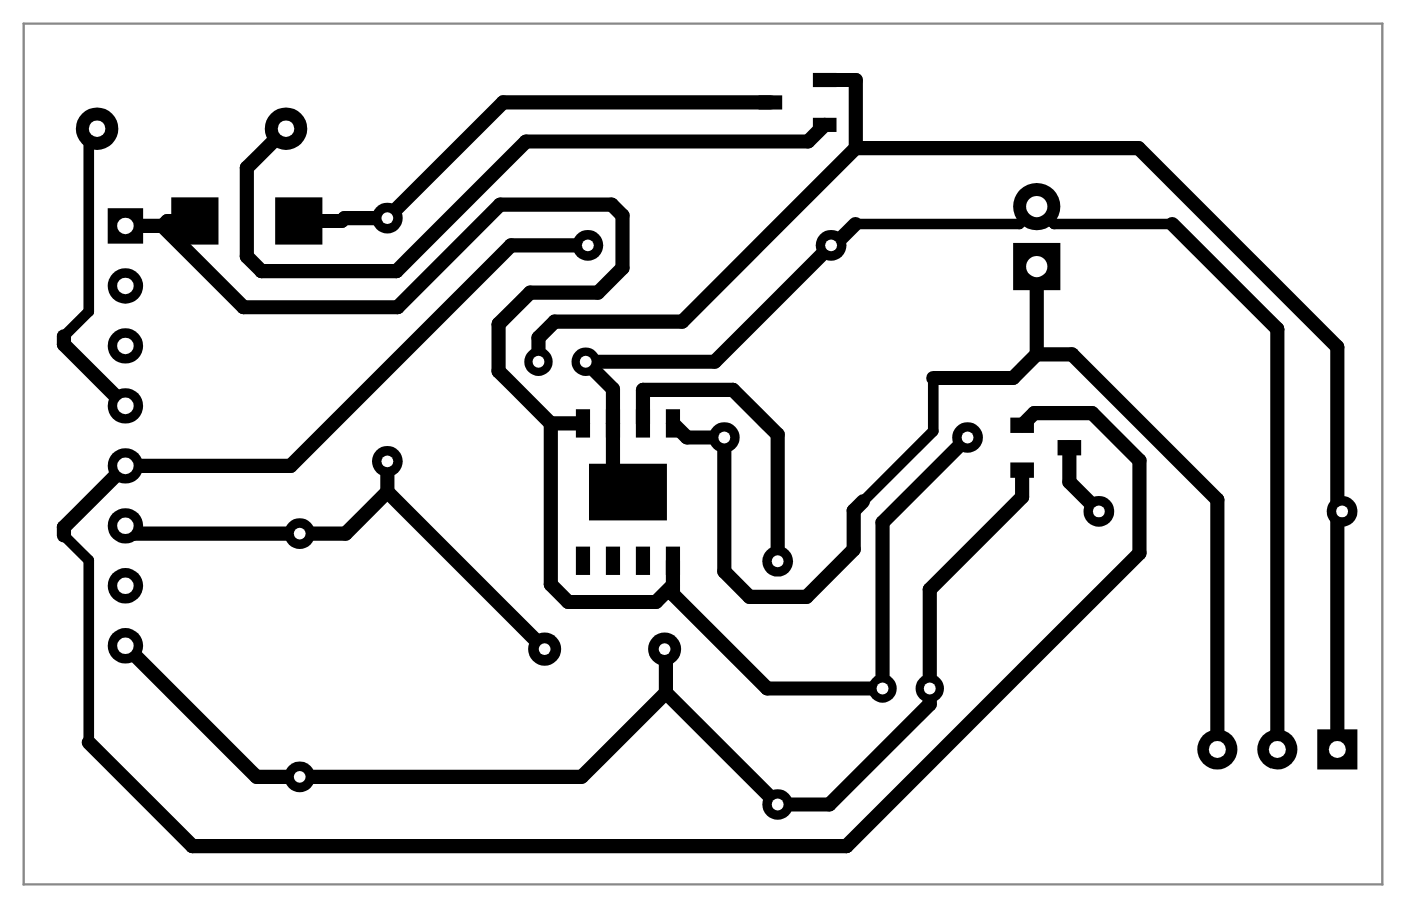
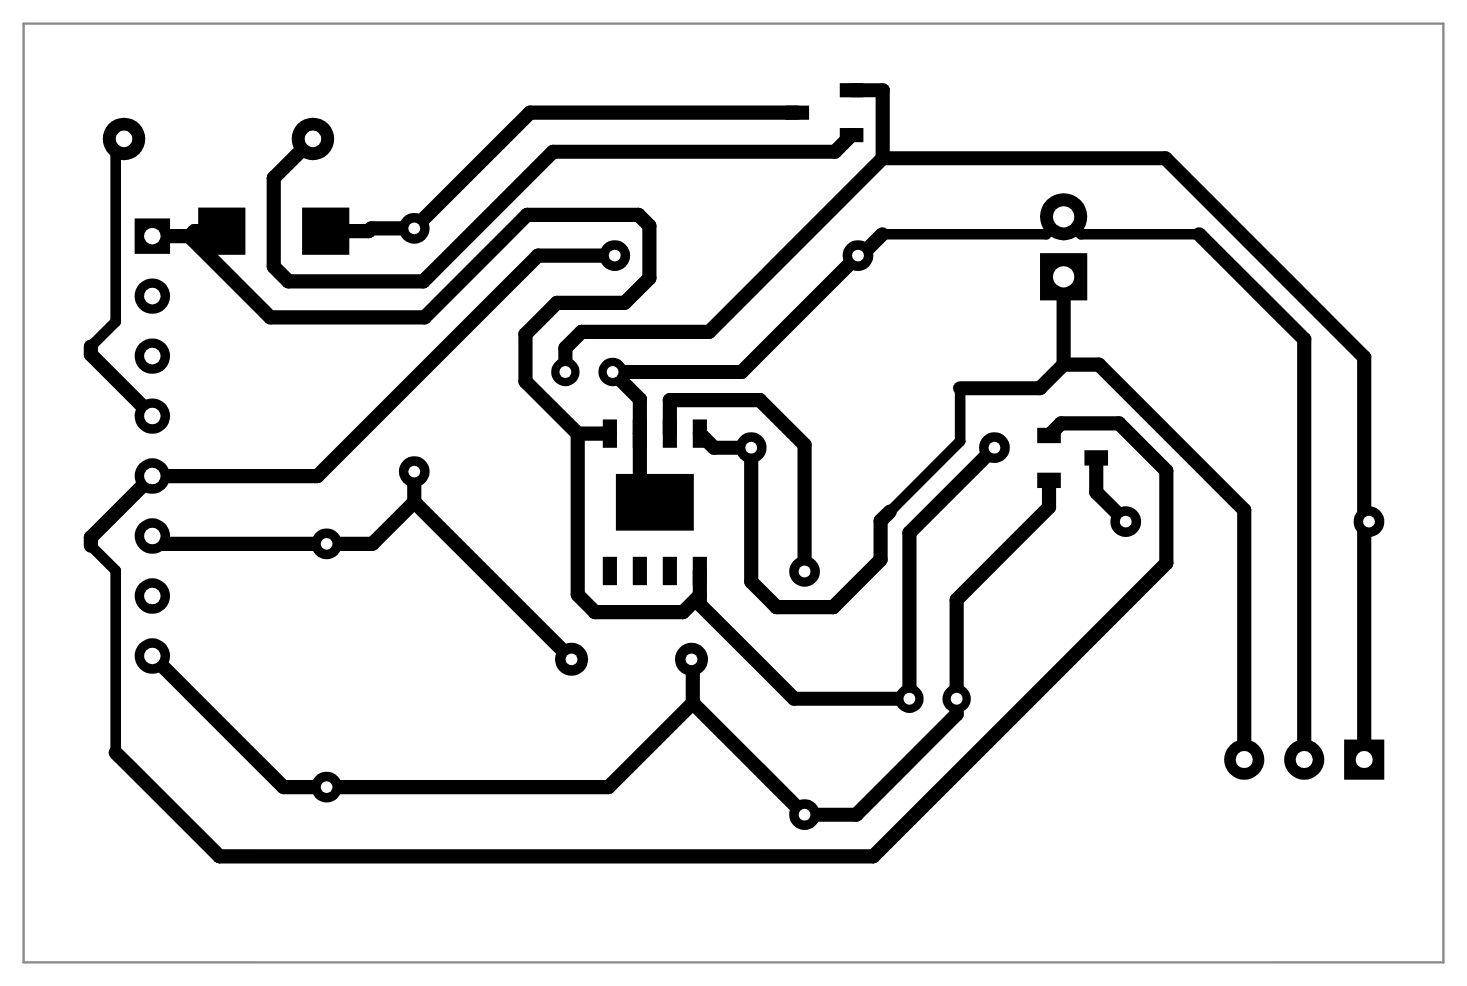
fix(hardware): enlarge the power board outline to clear the edge
The power board outline drawn in EasyEDA was 57.5 x 36.4 mm and left a
pad 1.05 mm from the edge, under the 2-3 mm Tiago asks for. The outline
is now 60.1 x 39.8 mm: copper sits 2.5 mm from the left, right and top
edges and 4.2 mm from the bottom one. The copper did not change; the
Gerber, fios.md and the engraving images are regenerated from the new
export.

Changed region(s): [[0.0, 0.0308, 1.0, 0.9868], [0.0306, 0.0, 0.9787, 0.0308]]

diff --git a/hardware/README.md b/hardware/README.md
@@ -9,7 +9,7 @@ fabrica placas de até 70 × 70 mm (laser + percloreto, uma face; trilha de 0,8 
 | Placa-base (CPU) | [`placa-principal/`](placa-principal/README.md) | 64 × 53 mm | 0 | DevKitC com cada pino em barras de pinos (3 cópias em cima, 2 embaixo), barra de 3V3 e de GND |
 | Botões da esquerda | [`placa-botoes-esquerda/`](placa-botoes-esquerda/README.md) | 52 × 64 mm | 4 | Cruz, Select/Start, energia, MCP23017 (0x20), pull-ups do I²C, D1 |
 | Botões da direita | [`placa-botoes-direita/`](placa-botoes-direita/README.md) | 39,2 × 39,2 mm | 0 | A, B, X, Y |
-| Energia | [`placa-energia/`](placa-energia/README.md) | 57,5 × 36,4 mm (vai a 60,1 × 38,1 mm) | 5 (4 de verdade) | TP4056, trava liga/desliga, divisor da bateria |
+| Energia | [`placa-energia/`](placa-energia/README.md) | 60,1 × 39,8 mm | 5 (4 de verdade) | TP4056, trava liga/desliga, divisor da bateria |
 
 Sem placa própria, presos na caixa e ligados por cabo à placa-base: tela MSP3218 (com o SD), CC1101,
 INMP441, MAX98357A (alto-falante no borne), IR RX, IR TX e PN532. O mapa de cada fio está na seção 4 de
@@ -34,15 +34,14 @@ pelo Tiago: trilha de 0,8 a 1 mm, margem de 2 a 3 mm; a isolação de 0,5 mm é 
 | Placa-base | 127, todas com 0,8 mm | 0,60 mm | 2,03 mm | 0 divergências (também contra `pins.h`) |
 | Botões da esquerda | 131; 0,8 mm menos `BTN_Y` (0,6 mm × 28,1 mm) e `GND` (0,4 mm × 1,4 mm) | 0,52 mm | 1,94 mm | 0 divergências |
 | Botões da direita | 29, todas com 0,8 mm | 0,52 mm | 2,15 mm | 0 divergências |
-| Energia | 123, com 0,6 mm e 38,9 mm de 0,45 mm (decisão do desenho, por causa do TP4056) | 0,52 mm | **1,05 mm** | 0 divergências |
+| Energia | 123, com 0,6 mm e 38,9 mm de 0,45 mm (decisão do desenho, por causa do TP4056) | 0,52 mm | 2,50 mm | 0 divergências |
 
 ## Pendências que valem para mais de uma placa
 
 | # | Item | Situação | Como fechar |
 |---|---|---|---|
 | 1 | Trilhas abaixo de 0,8 mm | **Fato:** só na esquerda (2 lugares) e na energia (por desenho). **Hipótese:** 0,6 mm e 0,45 mm saem no laser do Tiago, que engrossa tudo no Paint | Perguntar ao Tiago antes de gravar; se não sair, rerrotear (pode custar fios) |
-| 2 | Borda da energia | **Fato:** cobre a 1,05 mm da borda | Gabriel redesenha o contorno do PCB2 (números no README da energia, item 10) e exporta o Gerber de novo |
-| 3 | Isolação de 0,5 mm | **Hipótese:** basta para o processo do Tiago (pintura, laser, percloreto) | Primeira placa gravada |
-| 4 | Botões 6 × 6 | **Hipótese:** pinos 1 e 4 ficam em lados opostos da chave | Multímetro num botão comprado |
-| 5 | Imagem para gravar | **Fato:** o cobre está na camada de baixo em todas; `cobre-espelhada.png` é o lado do cobre visto de frente, 1:1. **Hipótese:** é a imagem que o Tiago quer | Confirmar com o Tiago na primeira placa |
-| 6 | Nada comprado nem montado | **Fato:** nenhuma placa foi gravada | — |
+| 2 | Isolação de 0,5 mm | **Hipótese:** basta para o processo do Tiago (pintura, laser, percloreto) | Primeira placa gravada |
+| 3 | Botões 6 × 6 | **Hipótese:** pinos 1 e 4 ficam em lados opostos da chave | Multímetro num botão comprado |
+| 4 | Imagem para gravar | **Fato:** o cobre está na camada de baixo em todas; `cobre-espelhada.png` é o lado do cobre visto de frente, 1:1. **Hipótese:** é a imagem que o Tiago quer | Confirmar com o Tiago na primeira placa |
+| 5 | Nada comprado nem montado | **Fato:** nenhuma placa foi gravada | — |

diff --git a/hardware/placa-energia/README.md b/hardware/placa-energia/README.md
@@ -5,7 +5,7 @@
 | Versão | 0.2 (2026-11-27) |
 | Para quem | Tiago Batista, que fabrica a placa em casa (corrosão de uma face) |
 | Ferramenta | EasyEDA Pro, projeto `dbmo`, placa `energia` (Schematic2 + PCB2) |
-| Tamanho | 57,5 × 36,4 mm, contorno do Gerber (limite do Tiago: 70 × 70 mm); deve crescer para 60,1 × 38,1 mm (seção 6, item 10) |
+| Tamanho | 60,1 × 39,8 mm, contorno do Gerber (limite do Tiago: 70 × 70 mm) |
 | Fonte das ligações | [`ligacoes.json`](ligacoes.json) |
 | Estado | **Desenhada e roteada, 5 fios (4 de verdade), sem curto** (`fios.py` sobre o Gerber exportado do EasyEDA). Nenhuma peça comprada, nada montado. Não corroer antes de fechar a seção 6 |
 
@@ -75,7 +75,7 @@ JE-5 da placa de botões da esquerda (o botão de energia e o D1 ficam lá).
 Rota pelo Freerouting 2.5.0 só na camada de baixo (trilha 0,6 mm, mínimo 0,4 mm, isolação 0,5 mm),
 importada no PCB2 pela API. Medido no Gerber exportado (`fios.md`): isolação mínima de 0,52 mm; toda
 trilha com 0,6 mm, menos 38,9 mm com 0,45 mm (`GND`, `POWER_HOLD`, `PWR_KEY` e `TEMP`); cobre a
-1,05 mm da borda no ponto mais perto (pad R3.1). `fios.md` lista 5 fios; o W4 (GND J2-2 ↔ J2-8) não precisa ser feito,
+2,50 mm da borda no ponto mais perto (pad R3.1). `fios.md` lista 5 fios; o W4 (GND J2-2 ↔ J2-8) não precisa ser feito,
 porque os dois GND do cabo se juntam na placa-base. O W1 (`BAT+`) e o fio do `CHG_STAT` passam por
 cima do TP4056. Um fio é inevitável nesta topologia: o CE (pino 8) é `+5V` e fica na diagonal oposta
 do VCC (pino 4), e com o NTC ligado qualquer volta em torno do chip tranca o `TEMP` ou o `CHRG`.
@@ -115,5 +115,5 @@ do VCC (pino 4), e com o NTC ligado qualquer volta em torno do chip tranca o `TE
 | 7 | Pino 6 do TP4056 | **Decisão do desenho:** o pad do STDBY (sem ligação) sai da pegada, para abrir passagem entre os pinos 5 e 7 | Editar a pegada no EasyEDA (Gabriel) |
 | 8 | Corrente com USB de computador | **Hipótese:** carga de 500 mA mais o aparelho passa dos 500 mA de uma porta USB 2.0 | Carregar com carregador de parede ou trocar R1 por 3 kΩ (400 mA) |
 | 9 | EN da DevKitC | **Pendente:** supervisor de tensão no EN (`S3-PWR-10`) não foi incluído | Avaliar depois das medições do item 2 |
-| 10 | Borda | **Fato:** o cobre chega a 1,05 mm da borda (pad R3.1) e as trilhas a 1,32 mm, abaixo dos 2–3 mm do Tiago | Gabriel redesenha o contorno do PCB2 com Start X 13 mil, Start Y 1572 mil, Width 2367 mil, Height 1499 mil (60,1 × 38,1 mm, 2,5 mm de borda em volta do cobre); depois exportar o Gerber e refazer `fios.md` e os PNGs |
+| 10 | Borda | **Fechado em 2026-11-27:** o contorno antigo (57,5 × 36,4 mm) deixava o cobre a 1,05 mm da borda. O Gabriel redesenhou o contorno do PCB2 (60,1 × 39,8 mm); agora o cobre fica a 2,50 mm da borda nos lados e a 4,2 mm embaixo | — |
 | 11 | Fios | **Fato:** 5 fios (`fios.md`), sendo o W4 (`GND` J2-2 ↔ J2-8) dispensável | Soldar W1, W2, W3 e W5 na montagem |

diff --git a/hardware/placa-energia/fios.md b/hardware/placa-energia/fios.md
@@ -8,7 +8,7 @@
 
 5 fios, 70 mm de fio no total; 123 trilhas; sem curtos.
 Isolação mínima: 0.52 mm (trilha `+5V` × trilha `LATCH_G`).
-Contorno: 57.53 × 36.45 mm. Cobre mais perto da borda: 1.05 mm (R3.1).
+Contorno: 60.12 × 39.75 mm. Cobre mais perto da borda: 2.50 mm (R3.1).
 
 Trilhas mais finas que 0.8 mm:
 
